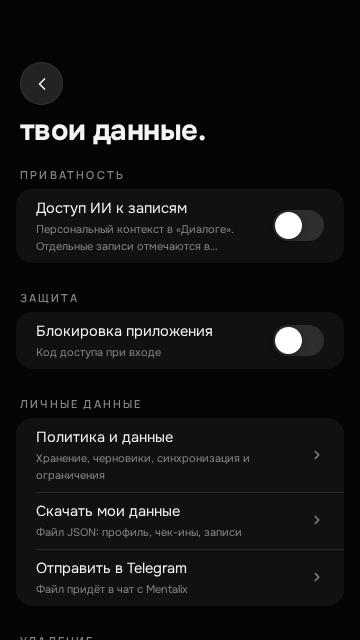
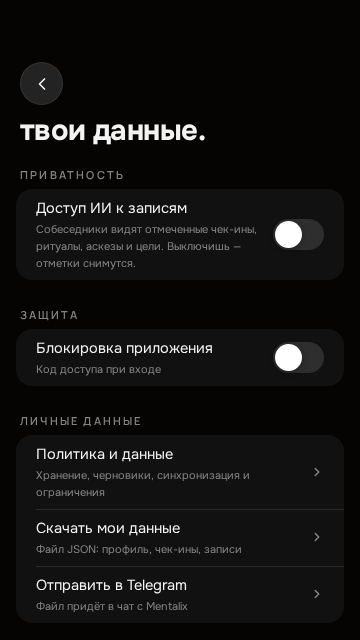
fix(consent): утверждённые тексты согласия ИИ (#1169) (#1173)
* Вынести тексты согласия ИИ в константы и обновить UI профиля

* fix(consent): уточнить тексты согласия ИИ про память разговоров (#1169)

---------

diff --git a/src/lib/aiContextConsent.js b/src/lib/aiContextConsent.js
@@ -55,8 +55,11 @@ export function isAiConsentSnoozed(value, now = Date.now()) {
  * Тексты карточки и переключателя — один источник для обеих поверхностей,
  * чтобы Диалог и Профиль не разошлись в формулировках.
  */
-export const AI_CONSENT_TITLE = 'Доступ ИИ к записям'
+export const AI_CONSENT_CARD_TITLE = 'Показать собеседникам твои записи?'
 export const AI_CONSENT_CARD_BODY =
-  'Глобальное согласие не открывает AI все записи. Отдельные чек-ины для контекста отмечаются в «Истории», а сегодняшний чек-ин можно разрешить сразу. AI не заменяет помощь специалиста.'
+  'Собеседники увидят чек-ины, которые ты отметишь в «Истории», твои ритуалы, аскезы и цели, а также то, что запомнят о тебе из ваших разговоров, — чтобы отвечать про твой день. Это передаётся в GigaChat (ПАО Сбербанк) только для ответа. Выключить можно в любой момент: Профиль → Твои данные → Доступ ИИ к записям.'
+export const AI_CONSENT_ALLOW_LABEL = 'Разрешить'
+export const AI_CONSENT_SNOOZE_LABEL = 'Не сейчас'
+export const AI_CONSENT_SWITCH_TITLE = 'Доступ ИИ к записям'
 export const AI_CONSENT_SWITCH_SUBTITLE =
-  'Персональный контекст в «Диалоге». Отдельные записи отмечаются в «Истории».'
+  'Собеседники видят отмеченные чек-ины, ритуалы, аскезы, цели и память разговоров. Выключишь — перестанут видеть.'

diff --git a/src/screens/mentalix/AiContextConsentCard.jsx b/src/screens/mentalix/AiContextConsentCard.jsx
@@ -7,8 +7,10 @@ import PillButton from '../../components/ui/PillButton'
 import { api } from '../../lib/api'
 import { useSynced } from '../../lib/store'
 import {
+  AI_CONSENT_ALLOW_LABEL,
   AI_CONSENT_CARD_BODY,
-  AI_CONSENT_TITLE,
+  AI_CONSENT_CARD_TITLE,
+  AI_CONSENT_SNOOZE_LABEL,
   AI_CONTEXT_PERSONAS,
   aiConsentSnoozeKey,
   canManageAiContext,
@@ -98,14 +100,16 @@ export default function AiContextConsentCard({ user, persona, hidden = false }) 
   return (
     <section
       data-testid="ai-consent-card"
-      aria-label={AI_CONSENT_TITLE}
+      aria-label={AI_CONSENT_CARD_TITLE}
       className="mb-3"
     >
       <Card className="p-4">
         <div className="flex items-start gap-3">
           <ShieldCheck size={18} className="mt-0.5 shrink-0 text-gold" aria-hidden="true" />
           <div className="min-w-0 flex-1">
-            <p className="text-[15px] font-semibold leading-snug text-cream">{AI_CONSENT_TITLE}</p>
+            <p className="text-[15px] font-semibold leading-snug text-cream">
+              {AI_CONSENT_CARD_TITLE}
+            </p>
             <p className="mt-1 text-[13px] leading-relaxed text-muted">{AI_CONSENT_CARD_BODY}</p>
             {error && (
               <p role="status" className="mt-2 text-[12px] leading-relaxed text-muted">
@@ -120,7 +124,7 @@ export default function AiContextConsentCard({ user, persona, hidden = false }) 
                 disabled={saving}
                 className="flex-1"
               >
-                Разрешить
+                {AI_CONSENT_ALLOW_LABEL}
               </PillButton>
               <button
                 type="button"
@@ -129,7 +133,7 @@ export default function AiContextConsentCard({ user, persona, hidden = false }) 
                 disabled={saving}
                 onClick={snooze}
               >
-                Не сейчас
+                {AI_CONSENT_SNOOZE_LABEL}
               </button>
             </div>
           </div>

diff --git a/src/lib/demoMode.js b/src/lib/demoMode.js
@@ -909,6 +909,7 @@ function daimonTestMode() {
  *   sendError    — две неудачные отправки подряд
  *   dailyLimit   — первая отправка отдаёт 429 daily_limit
  *   slowCreate   — медленное создание разговора (индикатор в чате)
+ *   crisis       — ответ собеседника приходит с crisis: true
  */
 const DIALOG_TEST_MODES = [
   'historyError',
@@ -917,6 +918,7 @@ const DIALOG_TEST_MODES = [
   'sendError',
   'dailyLimit',
   'slowCreate',
+  'crisis',
 ]
 
 let guidedCatalogFailuresLeft = 1
@@ -1626,6 +1628,9 @@ function respond(path, options = {}) {
       role: 'assistant',
       content: `${personaName} рядом. Давай разберём это спокойно: что в этой ситуации сейчас важнее всего заметить?`,
     }
+    // ?dialogTest=crisis: ответ собеседника просит поддержки. Метка та же,
+    // что приходит от backend и уже читается «Диалогом» (message.crisis).
+    if (dialogTestMode() === 'crisis') reply.crisis = true
     // Отдельные разговоры: сохраняем в conversation или в общий массив.
     const convId = body.conversation_id
     const conversations = [...(state.conversations || [])]

diff --git a/src/screens/settings/ProfileUi.jsx b/src/screens/settings/ProfileUi.jsx
@@ -202,6 +202,7 @@ export function ProfileRow({
   testId,
   valueHeading = false,
   disabled = false,
+  subtitleLines = 2,
 }) {
   const Component = onClick ? 'button' : 'div'
   const showChevron = Boolean(onClick) && !right
@@ -218,7 +219,16 @@ export function ProfileRow({
     >
       <span className="mx-profile-row__text">
         <span className="mx-profile-row__title">{title}</span>
-        {subtitle && <span className="mx-profile-row__subtitle">{subtitle}</span>}
+        {/* subtitleLines: по умолчанию две строки, как раньше. Длинной подписи
+            согласия на записи передаётся больше строк — текст не обрезается. */}
+        {subtitle && (
+          <span
+            className="mx-profile-row__subtitle"
+            style={subtitleLines !== 2 ? { WebkitLineClamp: subtitleLines } : undefined}
+          >
+            {subtitle}
+          </span>
+        )}
       </span>
       {value != null && <ValueTag className="mx-profile-row__value">{value}</ValueTag>}
       {right}

diff --git a/src/screens/settings/AiConsentSwitchRow.jsx b/src/screens/settings/AiConsentSwitchRow.jsx
@@ -10,7 +10,7 @@ import { useEffect, useState } from 'react'
 import { api } from '../../lib/api'
 import {
   AI_CONSENT_SWITCH_SUBTITLE,
-  AI_CONSENT_TITLE,
+  AI_CONSENT_SWITCH_TITLE,
   canManageAiContext,
   readAiConsentEnabled,
 } from '../../lib/aiContextConsent'
@@ -75,13 +75,14 @@ export default function AiConsentSwitchRow({ user }) {
   return (
     <>
       <ProfileRow
-        title={AI_CONSENT_TITLE}
+        title={AI_CONSENT_SWITCH_TITLE}
         subtitle={AI_CONSENT_SWITCH_SUBTITLE}
+        subtitleLines={4}
         testId="profile-ai-consent-row"
         right={
           <Toggle
             checked={enabled === true}
-            label={AI_CONSENT_TITLE}
+            label={AI_CONSENT_SWITCH_TITLE}
             onChange={toggle}
             disabled={saving || enabled === null}
             testId="profile-ai-consent-toggle"
